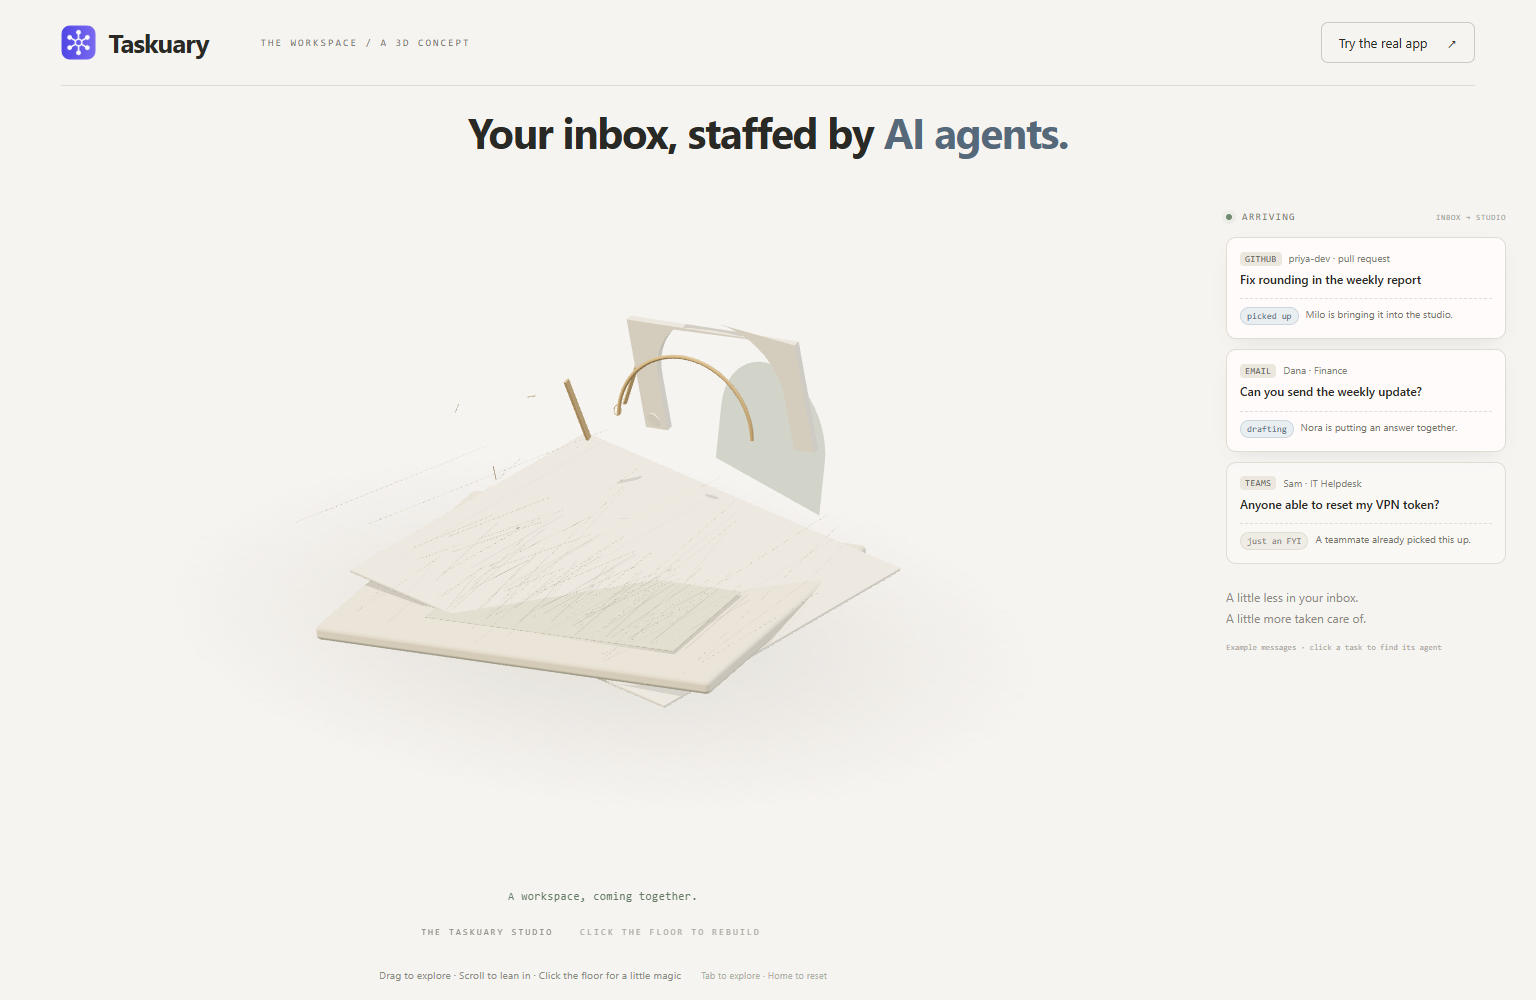
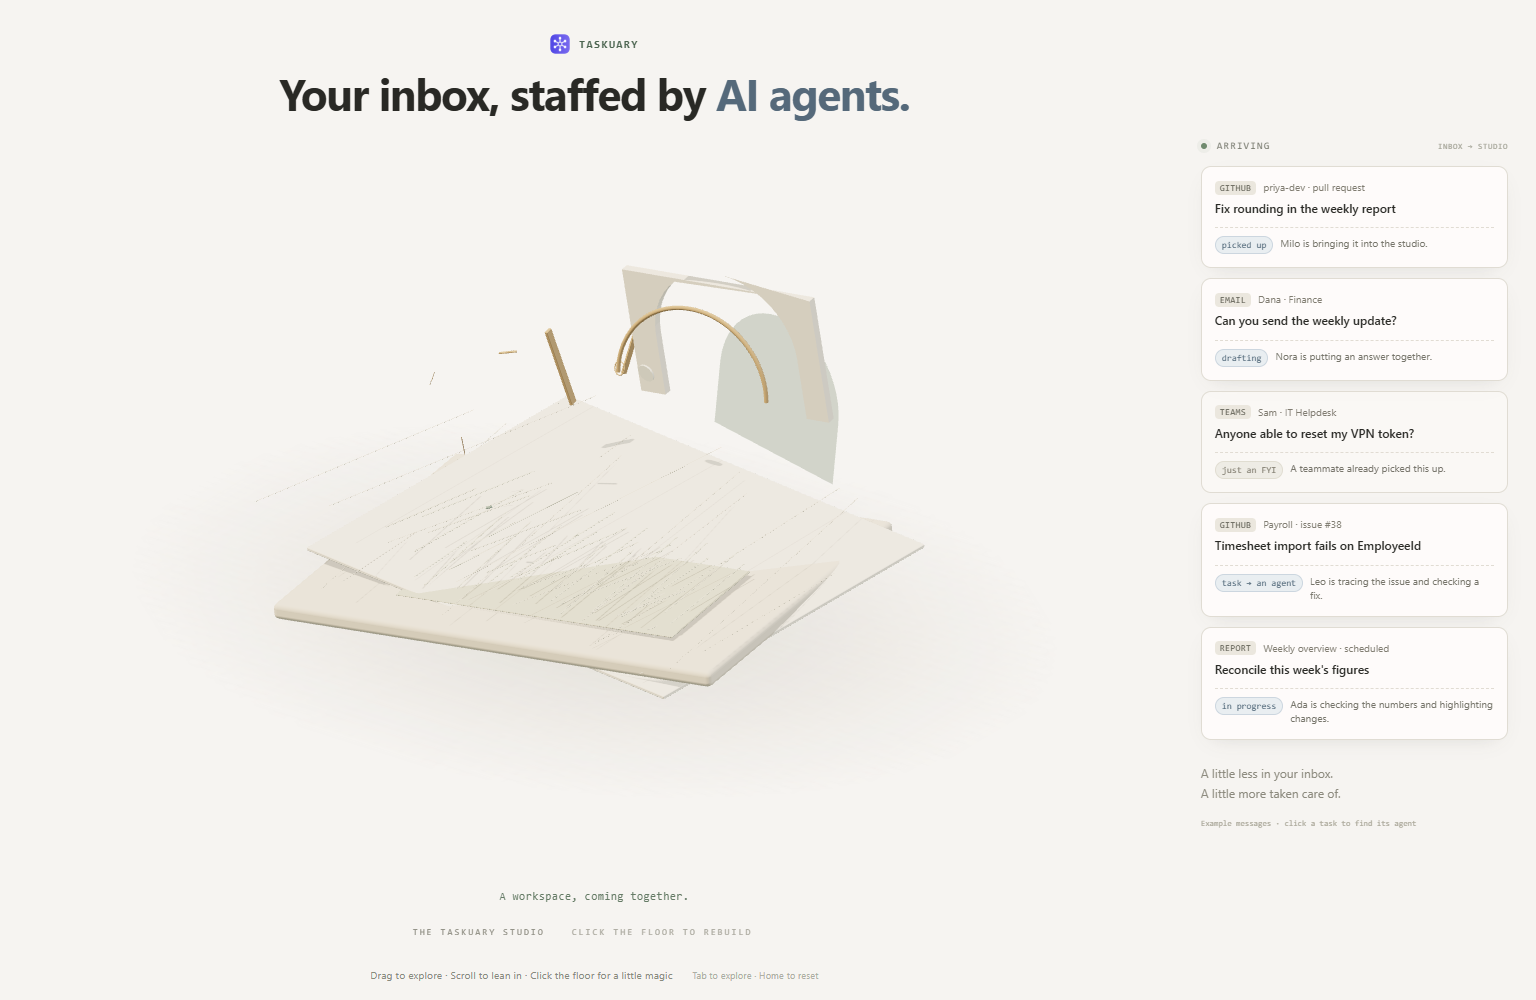
fix: match the Taskuary hero header and incoming feed

diff --git a/docs/mockups/animated-workspace/hero.css b/docs/mockups/animated-workspace/hero.css
@@ -1,13 +1,18 @@
 /* The room stays dominant; the arriving feed explains where its work comes from. */
 .sr-only{position:absolute;width:1px;height:1px;padding:0;margin:-1px;overflow:hidden;clip-path:inset(50%);white-space:nowrap;border:0}
-main{height:calc(100svh - 86px);min-height:620px;max-height:none}
-#world{left:0;right:330px;top:0;bottom:48px}
-.scene-tools{bottom:18px;right:330px}
+main{--rail-width:clamp(240px,20vw,320px);height:100svh;min-height:760px;max-height:none}
+.hero-heading{position:absolute;top:0;left:0;right:calc(var(--rail-width) + 40px);z-index:2;padding:34px 24px 0;text-align:center;pointer-events:none}
+.hero-brand{display:inline-flex;align-items:center;gap:9px;font:600 11px Consolas,monospace;letter-spacing:1.4px;text-transform:uppercase;color:#4c6450;pointer-events:auto}
+.hero-brand img{width:20px;height:20px;border-radius:6px}
+.hero-heading h1{font-size:clamp(28px,3vw,44px);line-height:1.08;letter-spacing:-.03em;margin:12px 0 0;font-weight:700}
+.hero-heading h1 span{color:var(--slate);white-space:nowrap}
+#world{left:0;right:calc(var(--rail-width) + 40px);top:112px;bottom:48px}
+.scene-tools{bottom:18px;right:calc(var(--rail-width) + 40px)}
 .room-caption{bottom:15px}
 .construction-cue{position:absolute;left:50%;bottom:49px;transform:translateX(-50%);font:11px Consolas,monospace;letter-spacing:.5px;color:#657b66;text-align:center;white-space:nowrap;pointer-events:none}
 #world.assembling .scene-label,#world.assembling .hover-hint,#world.assembling .desk-detail{visibility:hidden}
 #world.assembling canvas{cursor:grab}
-.incoming-rail{position:absolute;right:30px;top:86px;width:280px;z-index:5}
+.incoming-rail{position:absolute;right:28px;top:max(14vh,128px);width:var(--rail-width);z-index:5}
 .incoming-rail h2{font:10px Consolas,monospace;text-transform:uppercase;letter-spacing:1.2px;color:#797b70;display:flex;align-items:center;gap:10px;margin:0 0 14px}
 .rail-live{margin-left:auto;font-size:8px;color:#a4a497;letter-spacing:.6px}
 .incoming-list{display:flex;flex-direction:column;gap:10px}
@@ -22,8 +27,7 @@ button.incoming-card:hover,button.incoming-card:focus-visible{border-color:#9fae
 .route-pill.waiting{background:#f4e9eb;color:#8a3646;border-color:#e0c8ce}.route-pill.done{background:#e8eee4;color:#526f50;border-color:#d0ddc9}.route-pill.fyi{background:#eeece5;color:#858174;border-color:#e0ddd1}
 .fyi-card{box-shadow:none;background:#fffdfb70}.rail-note{font-size:12px;line-height:1.7;color:#8d8b7f;margin:23px 0 14px}.rail-example{font:8px Consolas,monospace;color:#aaa799;line-height:1.5;display:block}
 .handoff-slip{position:absolute;z-index:6;pointer-events:none;border:1px solid #cbd6cf;border-radius:6px;padding:7px 11px;background:#fffdfa;color:#55705d;font-size:11px;box-shadow:0 5px 16px #42513d20;transform-origin:center;white-space:nowrap}
-@media(min-width:1700px){.incoming-rail{right:4%;width:300px}#world,.scene-tools{right:380px}}
-@media(max-width:1050px) and (min-width:901px){.incoming-rail{right:20px;width:245px}#world,.scene-tools{right:275px}.keyboard-note{display:none}}
-@media(max-width:900px){main{height:auto;min-height:0;display:flex;flex-direction:column;padding-bottom:65px}#world{position:relative;left:auto;right:auto;top:auto;bottom:auto;height:560px;width:100%;flex:none}.incoming-rail{position:relative;right:auto;top:auto;width:auto;margin:0 5%;order:2}.incoming-list{display:grid;grid-template-columns:repeat(3,minmax(0,1fr))}.rail-note{display:none}.rail-example{margin-top:12px}.scene-tools{bottom:18px;right:0}.card-routing{flex-direction:column}.room-caption{bottom:16px}}
+@media(max-width:1050px) and (min-width:901px){.incoming-rail{right:20px}.keyboard-note{display:none}}
+@media(max-width:900px){main{height:auto;min-height:0;display:flex;flex-direction:column;padding-bottom:65px}.hero-heading{position:relative;left:auto;right:auto;top:auto;padding:26px 16px 4px}.hero-heading h1{font-size:30px;margin-top:8px}#world{position:relative;left:auto;right:auto;top:auto;bottom:auto;height:560px;width:100%;flex:none}.incoming-rail{position:relative;right:auto;top:auto;width:auto;margin:0 5%;order:2}.incoming-list{display:grid;grid-template-columns:repeat(2,minmax(0,1fr))}.rail-note{display:none}.rail-example{margin-top:12px}.scene-tools{bottom:18px;right:0}.card-routing{flex-direction:column}.room-caption{bottom:16px}}
 @media(max-width:520px){#world{height:420px}.incoming-list{display:flex}.incoming-rail{margin:0 6%}.card-routing{flex-direction:row}.fyi-card{display:none}.scene-tools{padding:0 28px}.rail-example{font-size:8px}.incoming-rail h2{margin-bottom:10px}}
 @media(prefers-reduced-motion:reduce){button.incoming-card{transition:none}}

diff --git a/docs/mockups/animated-workspace/index.html b/docs/mockups/animated-workspace/index.html
@@ -11,13 +11,11 @@
   <script type="importmap">{"imports":{"three":"./vendor/three.module.min.js"}}</script>
 </head>
 <body>
-  <nav aria-label="Main navigation">
-    <a class="brand" href="../../../site/index.html"><img src="../../../site/icon.png" alt="">Taskuary</a>
-    <span class="concept">THE WORKSPACE / A 3D CONCEPT</span>
-    <a class="nav-demo" href="../../../site/demo/">Try the real app <span>↗</span></a>
-  </nav>
   <main>
-    <h1 class="sr-only">Taskuary workspace</h1>
+    <header class="hero-heading">
+      <a class="hero-brand" href="../../../site/index.html"><img src="../../../site/icon.png" alt="">Taskuary</a>
+      <h1>Your inbox, staffed by <span>AI agents.</span></h1>
+    </header>
     <div id="activity-text" class="sr-only" aria-live="polite">Milo is bringing in a new task.</div>
     <section id="world" aria-label="Interactive 3D office with agents working at desks">
       <div id="loading">Opening the workspace<span>Building a little room for your work…</span></div>
@@ -48,6 +46,16 @@
           <strong>Anyone able to reset my VPN token?</strong>
           <span class="card-routing"><span class="route-pill fyi">just an FYI</span><span>A teammate already picked this up.</span></span>
         </article>
+        <button type="button" class="incoming-card" data-agent="1">
+          <span class="card-meta"><span class="channel">GITHUB</span><span>Payroll · issue #38</span></span>
+          <strong>Timesheet import fails on EmployeeId</strong>
+          <span class="card-routing"><span class="route-pill">task → an agent</span><span>Leo is tracing the issue and checking a fix.</span></span>
+        </button>
+        <button type="button" class="incoming-card" data-agent="0">
+          <span class="card-meta"><span class="channel">REPORT</span><span>Weekly overview · scheduled</span></span>
+          <strong>Reconcile this week's figures</strong>
+          <span class="card-routing"><span class="route-pill">in progress</span><span>Ada is checking the numbers and highlighting changes.</span></span>
+        </button>
       </div>
       <p class="rail-note">A little less in your inbox.<br>A little more taken care of.</p>
       <span class="rail-example">Example messages · click a task to find its agent</span>

diff --git a/docs/mockups/animated-workspace/README.md b/docs/mockups/animated-workspace/README.md
@@ -2,7 +2,7 @@
 
 A standalone, interactive 3D concept based on the adjacent generated hero image. The geometry, characters, lighting, and animation are built in Three.js; the image is not used as a backdrop. This is an illustrative mockup, not a connection to real agents or email.
 
-The hero centers the interactive room in the space beside the incoming feed, with no visible headline or marketing copy column. On narrow screens the feed moves below the room. A page heading and activity announcements remain available to screen readers. The walking animation resets all orientation axes after leaving a chair so the agent faces forward on both outbound and inbound trips.
+The hero follows the current Taskuary landing page: a small centered Taskuary mark above “Your inbox, staffed by AI agents.”, the interactive room underneath, and the arriving feed on the right. There is no separate top navigation bar or marketing copy column. On narrow screens the feed moves below the room. Activity announcements remain available to screen readers. The walking animation resets all orientation axes after leaving a chair so the agent faces forward on both outbound and inbound trips.
 
 The incoming feed and room share the same story state: Milo's task goes from collection to pickup to work at a desk, and Nora's email goes from drafting to waiting for approval to approved. A small task slip flies from the feed toward the doorway at pickup (disabled with reduced motion). Hovering a task highlights its agent; clicking it opens the corresponding work detail or draft. A separate FYI card illustrates a message already handled by a teammate. Messages are examples and task subjects rotate across arrivals.
 
